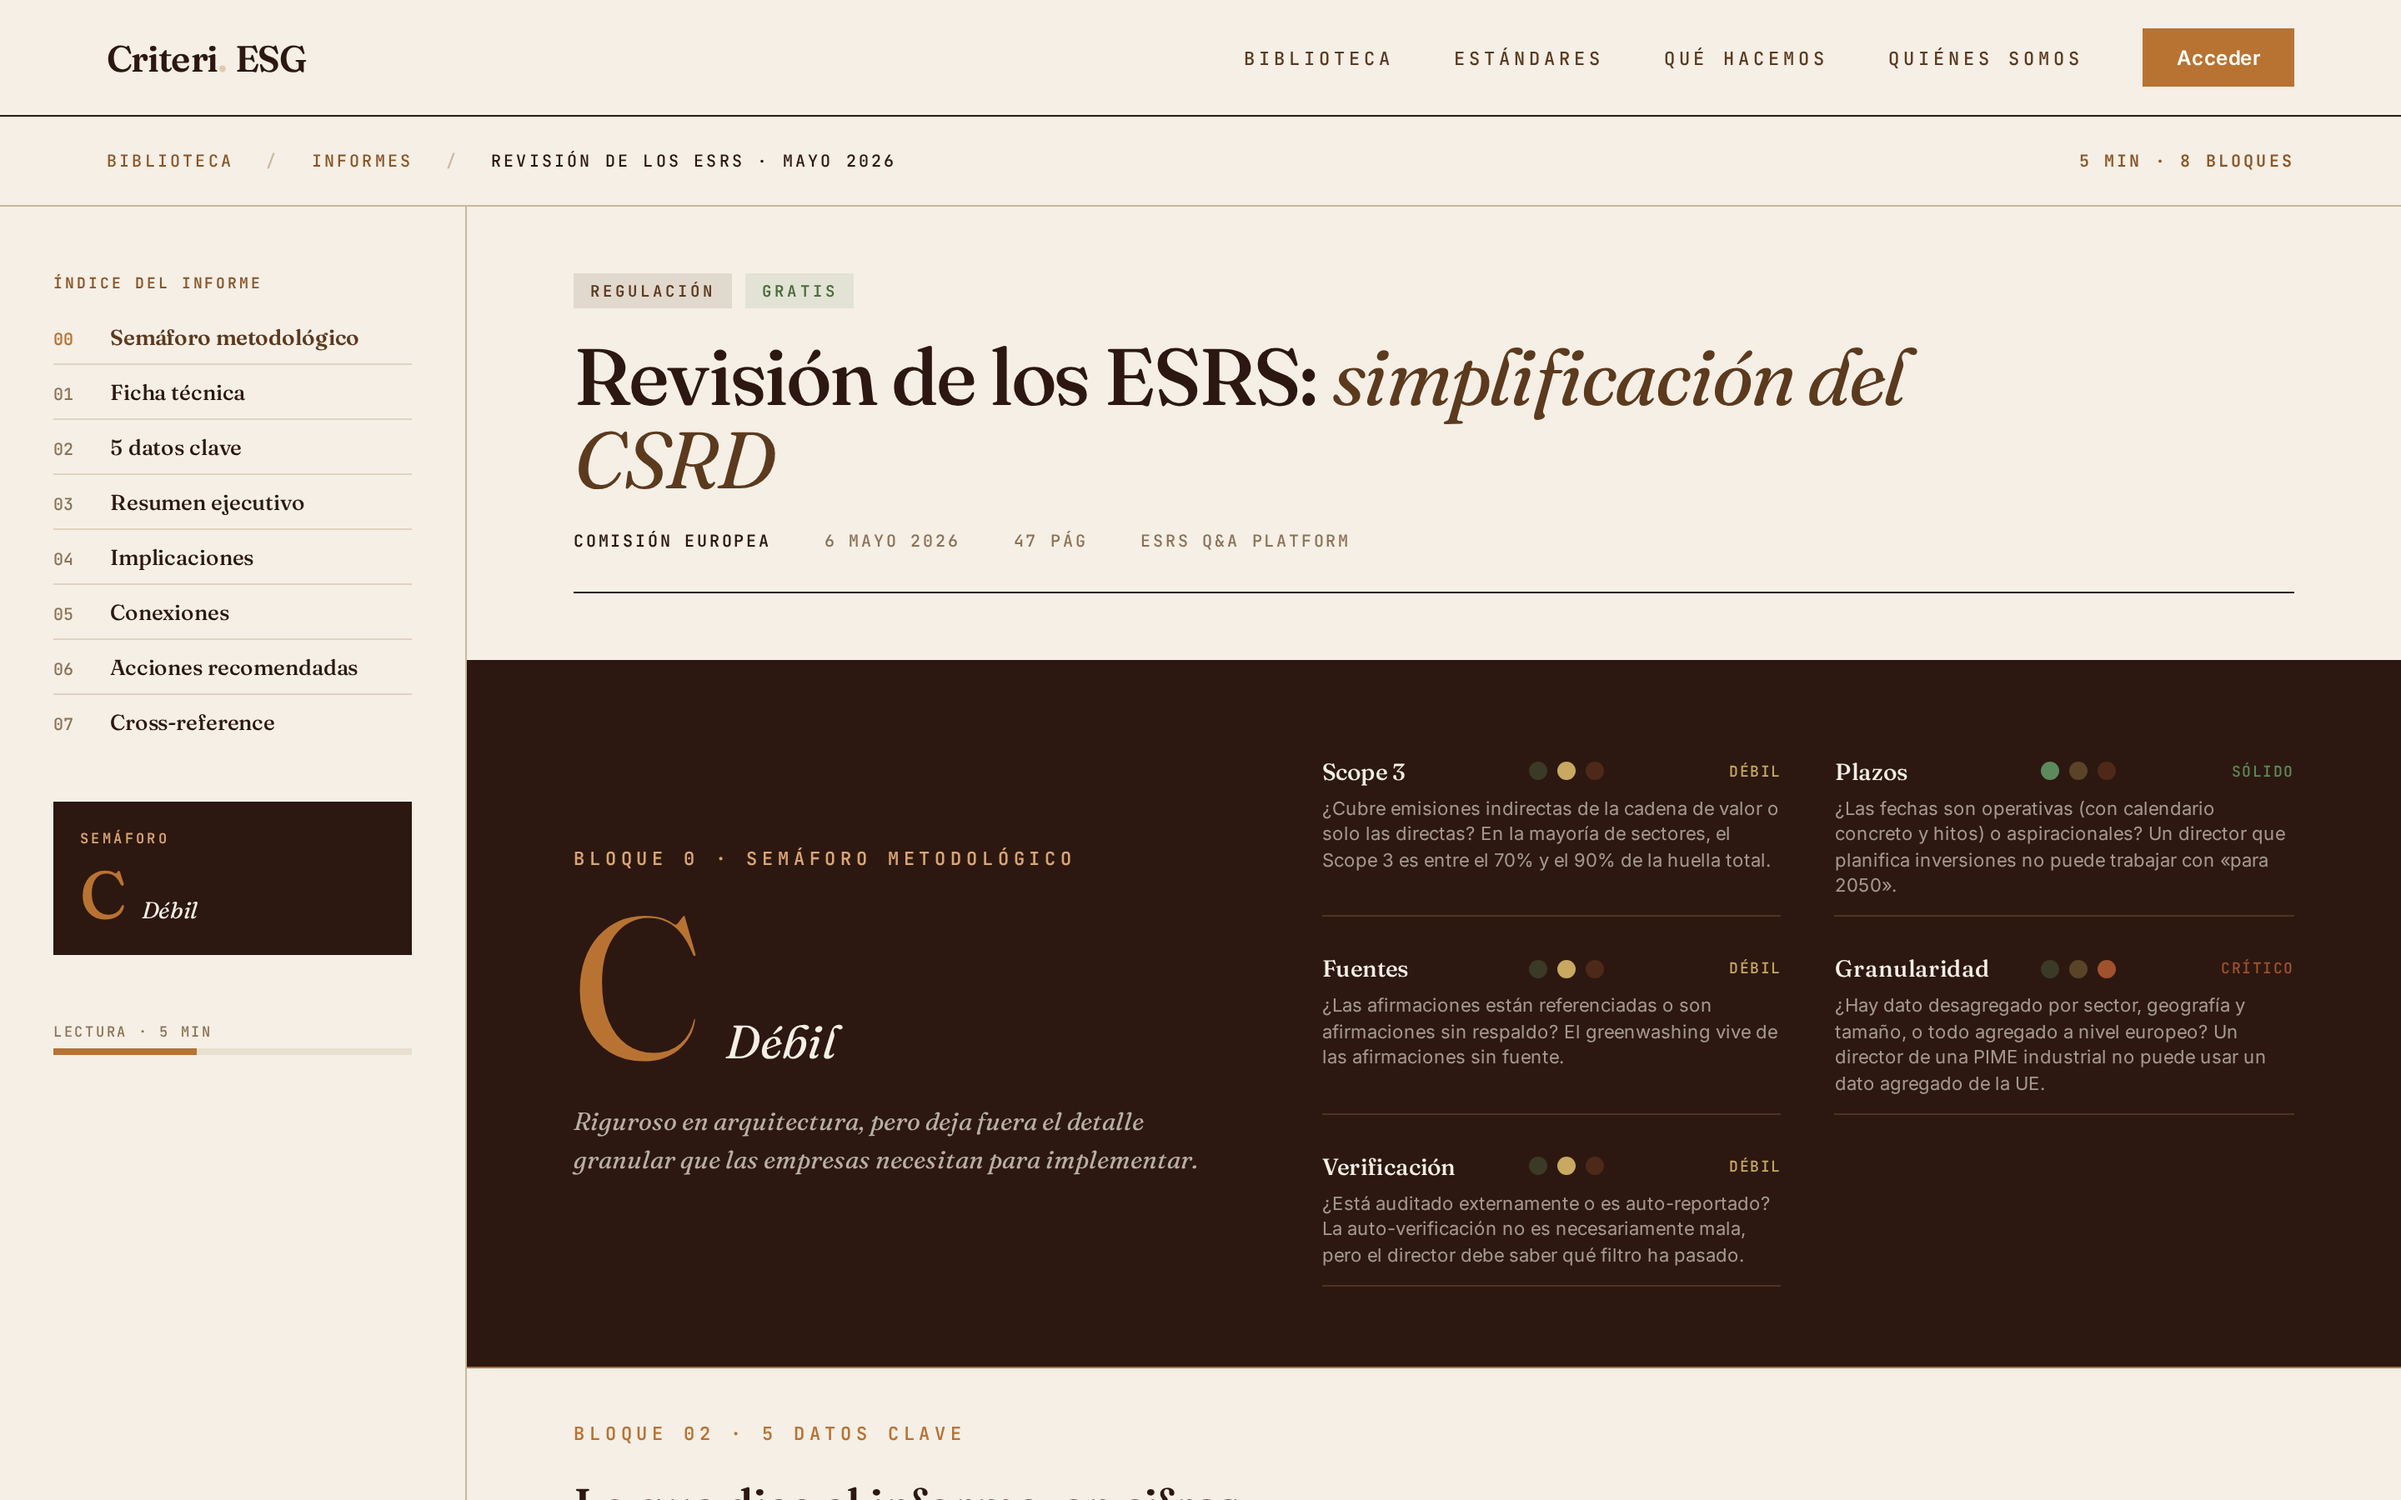
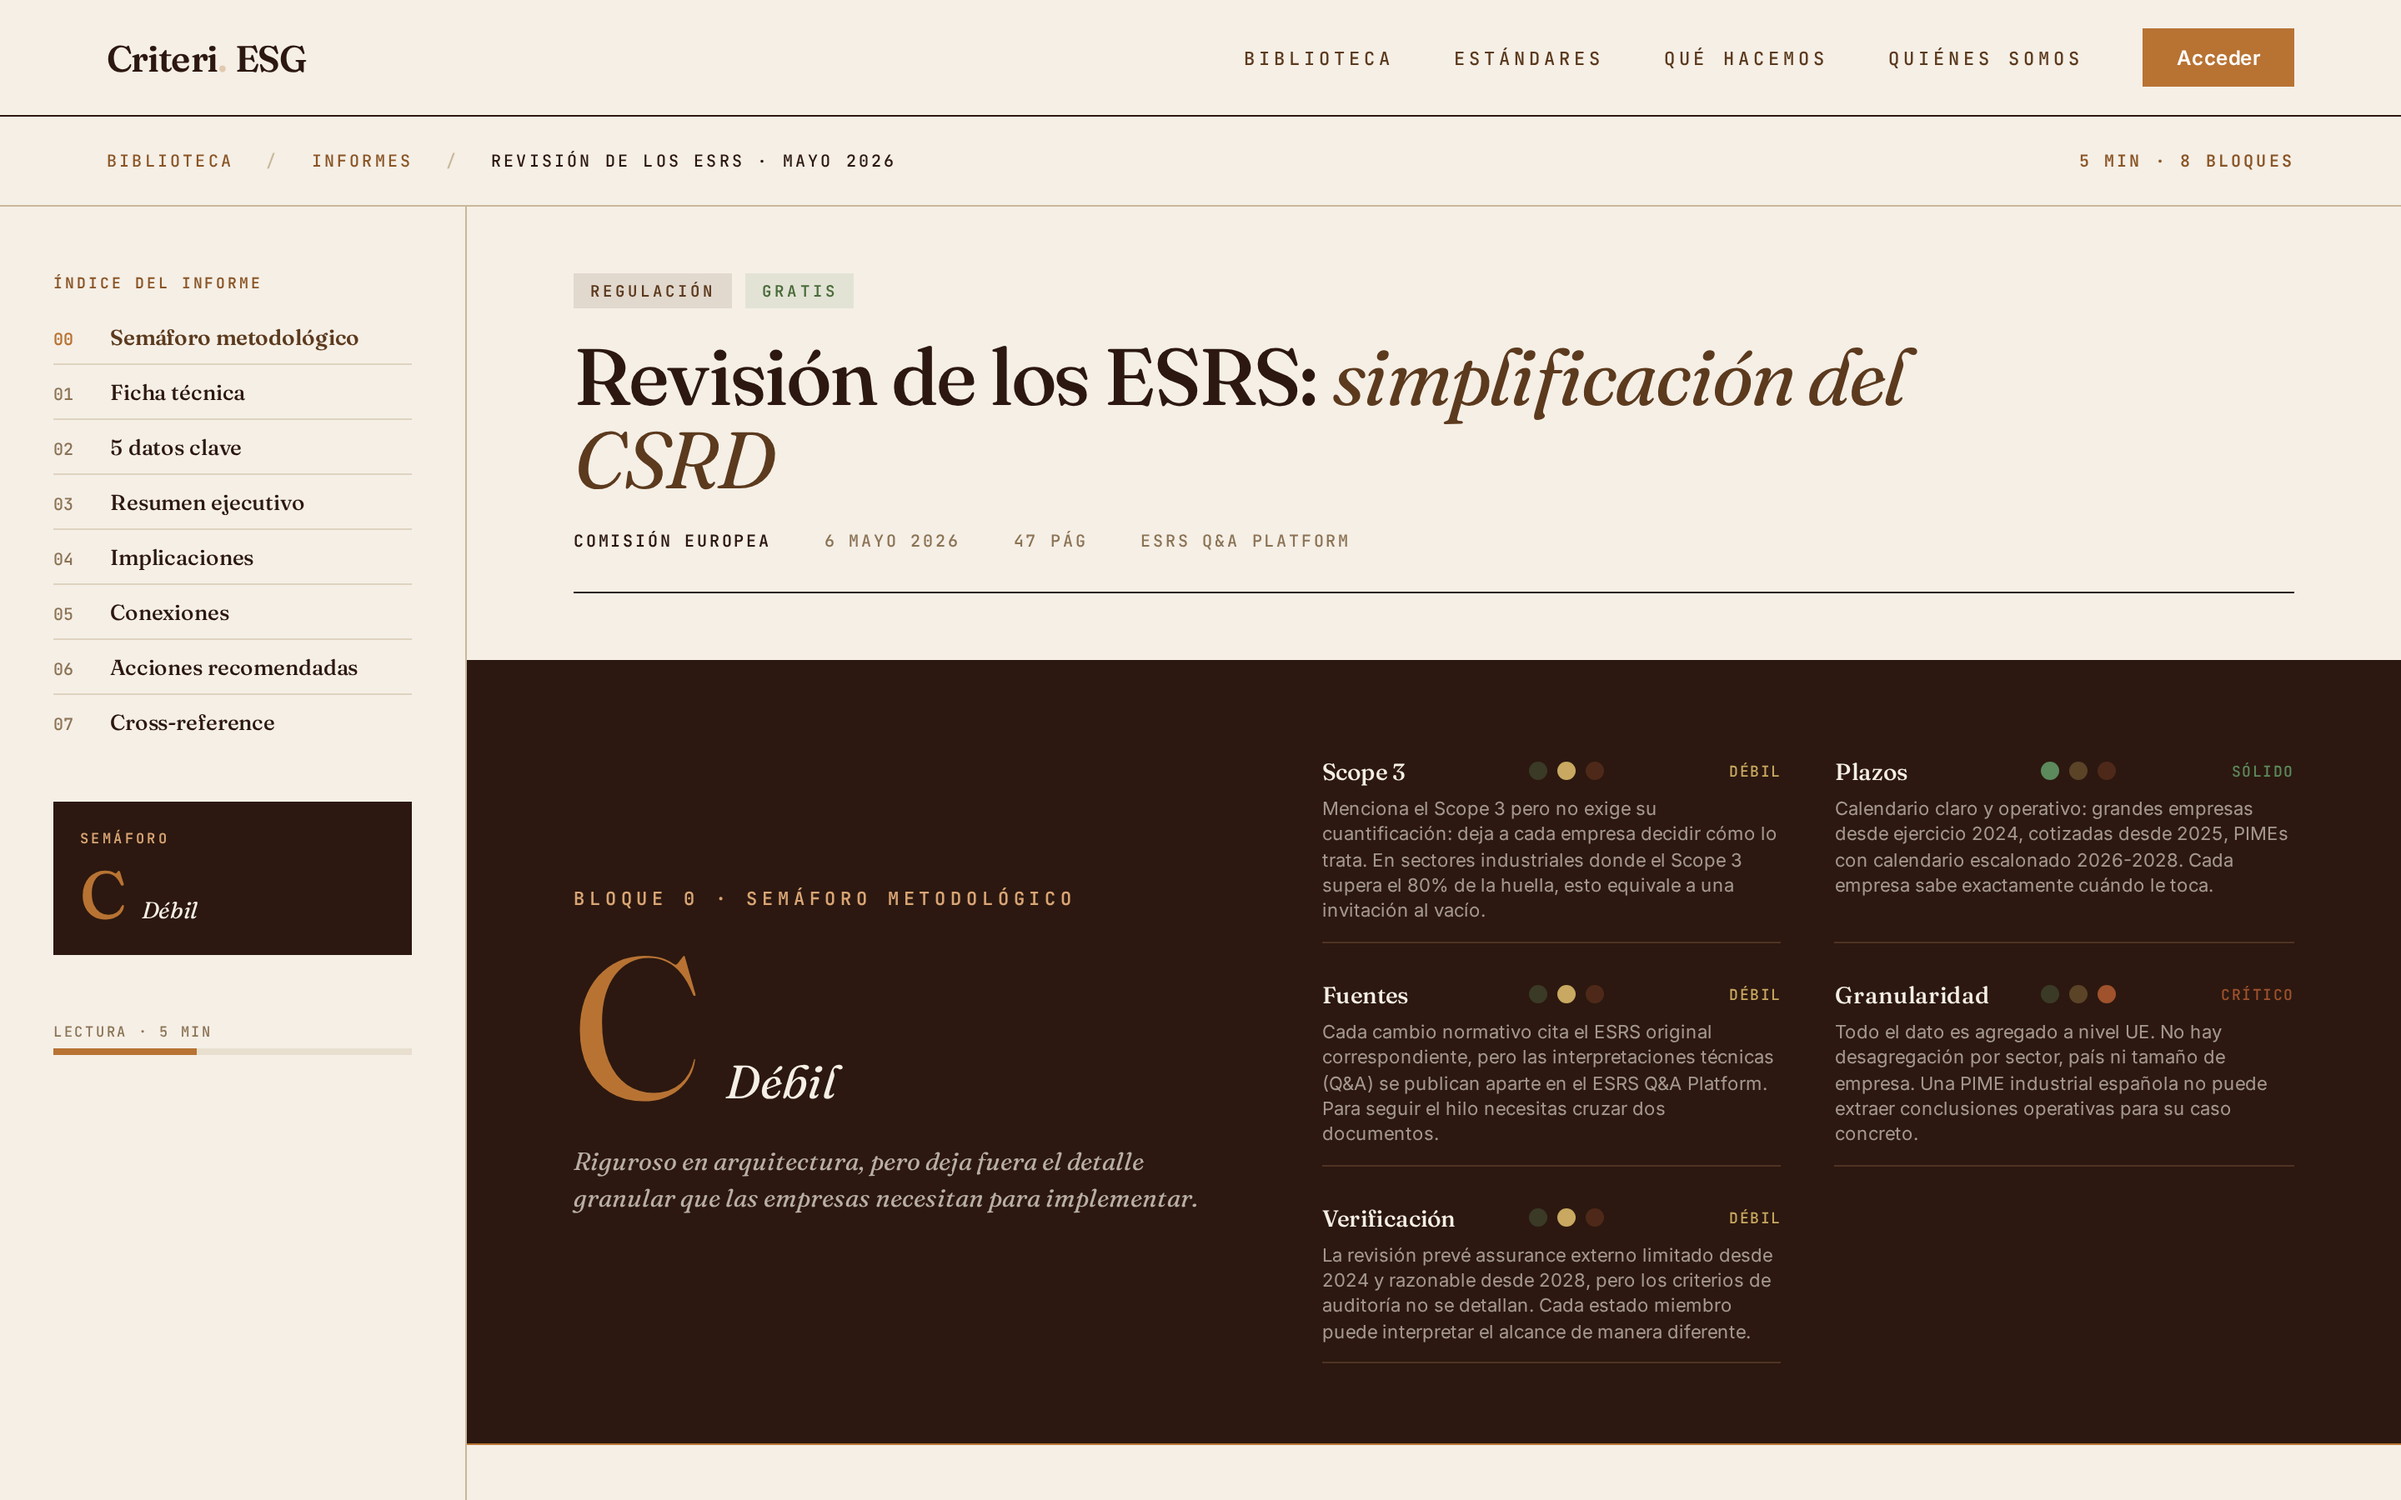
Variant A: justificacions concretes al semàfor per a l'informe ESRS
Abans explicava genèricament què mesura cada dimensió. Ara justifica PER QUÈ aquest informe concret rep aquesta nota:

- Scope 3 (groc): menciona però no exigeix cuantificació; deixa a empresa decidir
- Plazos (verd): calendari clar i operatiu 2024-2028, escalonat per mida d'empresa
- Fuentes (groc): cita els ESRS originals però les Q&A estan en document separat
- Granularidad (vermell crític): tot agregat a nivell UE, sense desagregar
- Verificación (groc): assurance previst però criteris d'auditoria no detallats

El popup es queda amb explicació genèrica (està bé així).
Paraules totals: 866.
Pujat a Drive (mateixos IDs, sobreescrits).

diff --git a/assets/redisseny-web/variant-a-sidebar.html b/assets/redisseny-web/variant-a-sidebar.html
@@ -801,7 +801,7 @@
             <div class="dim-dots"><div class="dot g"></div><div class="dot y active"></div><div class="dot r"></div></div>
             <span class="dim-status yellow">Débil</span>
           </div>
-          <p class="dim-explanation">¿Cubre emisiones indirectas de la cadena de valor o solo las directas? En la mayoría de sectores, el Scope 3 es entre el 70% y el 90% de la huella total.</p>
+          <p class="dim-explanation">Menciona el Scope 3 pero no exige su cuantificación: deja a cada empresa decidir cómo lo trata. En sectores industriales donde el Scope 3 supera el 80% de la huella, esto equivale a una invitación al vacío.</p>
         </div>
         <div class="dim">
           <div class="dim-top">
@@ -809,7 +809,7 @@
             <div class="dim-dots"><div class="dot g active"></div><div class="dot y"></div><div class="dot r"></div></div>
             <span class="dim-status green">Sólido</span>
           </div>
-          <p class="dim-explanation">¿Las fechas son operativas (con calendario concreto y hitos) o aspiracionales? Un director que planifica inversiones no puede trabajar con «para 2050».</p>
+          <p class="dim-explanation">Calendario claro y operativo: grandes empresas desde ejercicio 2024, cotizadas desde 2025, PIMEs con calendario escalonado 2026-2028. Cada empresa sabe exactamente cuándo le toca.</p>
         </div>
         <div class="dim">
           <div class="dim-top">
@@ -817,7 +817,7 @@
             <div class="dim-dots"><div class="dot g"></div><div class="dot y active"></div><div class="dot r"></div></div>
             <span class="dim-status yellow">Débil</span>
           </div>
-          <p class="dim-explanation">¿Las afirmaciones están referenciadas o son afirmaciones sin respaldo? El greenwashing vive de las afirmaciones sin fuente.</p>
+          <p class="dim-explanation">Cada cambio normativo cita el ESRS original correspondiente, pero las interpretaciones técnicas (Q&A) se publican aparte en el ESRS Q&A Platform. Para seguir el hilo necesitas cruzar dos documentos.</p>
         </div>
         <div class="dim">
           <div class="dim-top">
@@ -825,7 +825,7 @@
             <div class="dim-dots"><div class="dot g"></div><div class="dot y"></div><div class="dot r active"></div></div>
             <span class="dim-status red">Crítico</span>
           </div>
-          <p class="dim-explanation">¿Hay dato desagregado por sector, geografía y tamaño, o todo agregado a nivel europeo? Un director de una PIME industrial no puede usar un dato agregado de la UE.</p>
+          <p class="dim-explanation">Todo el dato es agregado a nivel UE. No hay desagregación por sector, país ni tamaño de empresa. Una PIME industrial española no puede extraer conclusiones operativas para su caso concreto.</p>
         </div>
         <div class="dim">
           <div class="dim-top">
@@ -833,7 +833,7 @@
             <div class="dim-dots"><div class="dot g"></div><div class="dot y active"></div><div class="dot r"></div></div>
             <span class="dim-status yellow">Débil</span>
           </div>
-          <p class="dim-explanation">¿Está auditado externamente o es auto-reportado? La auto-verificación no es necesariamente mala, pero el director debe saber qué filtro ha pasado.</p>
+          <p class="dim-explanation">La revisión prevé assurance externo limitado desde 2024 y razonable desde 2028, pero los criterios de auditoría no se detallan. Cada estado miembro puede interpretar el alcance de manera diferente.</p>
         </div>
       </div>
     </section>
